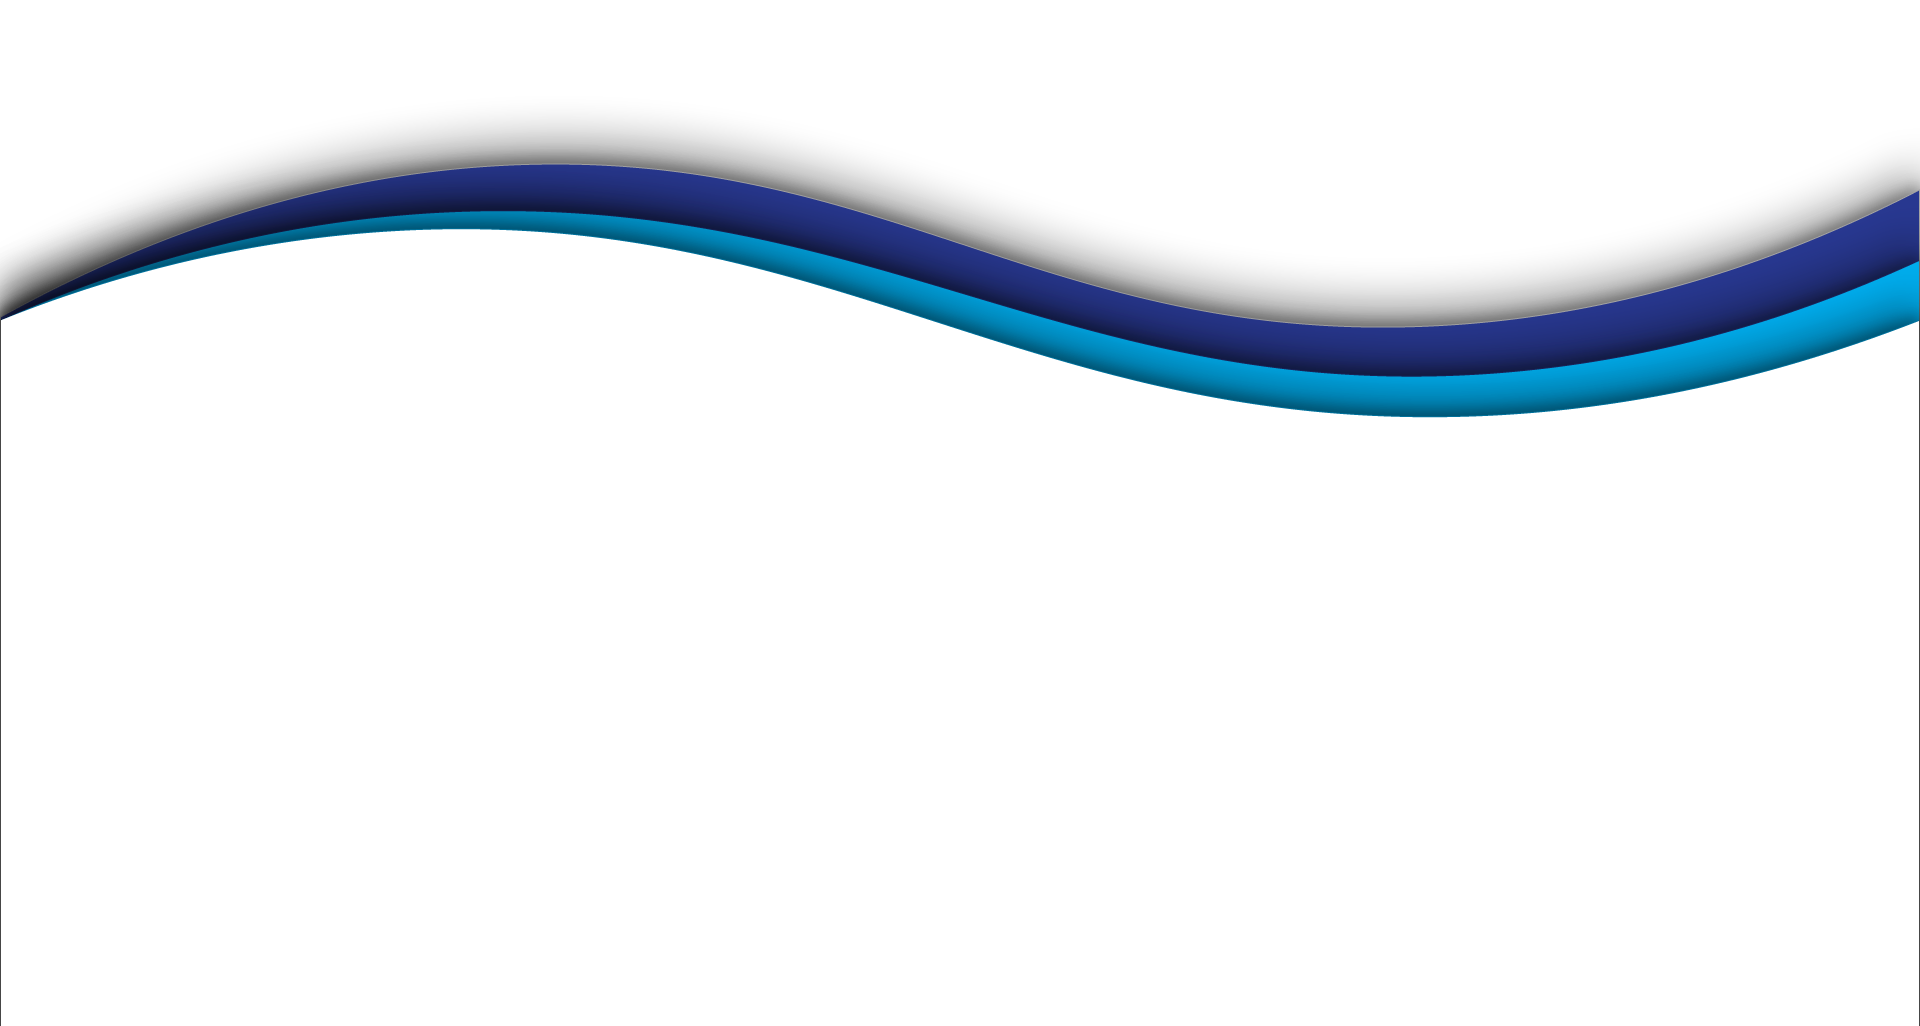
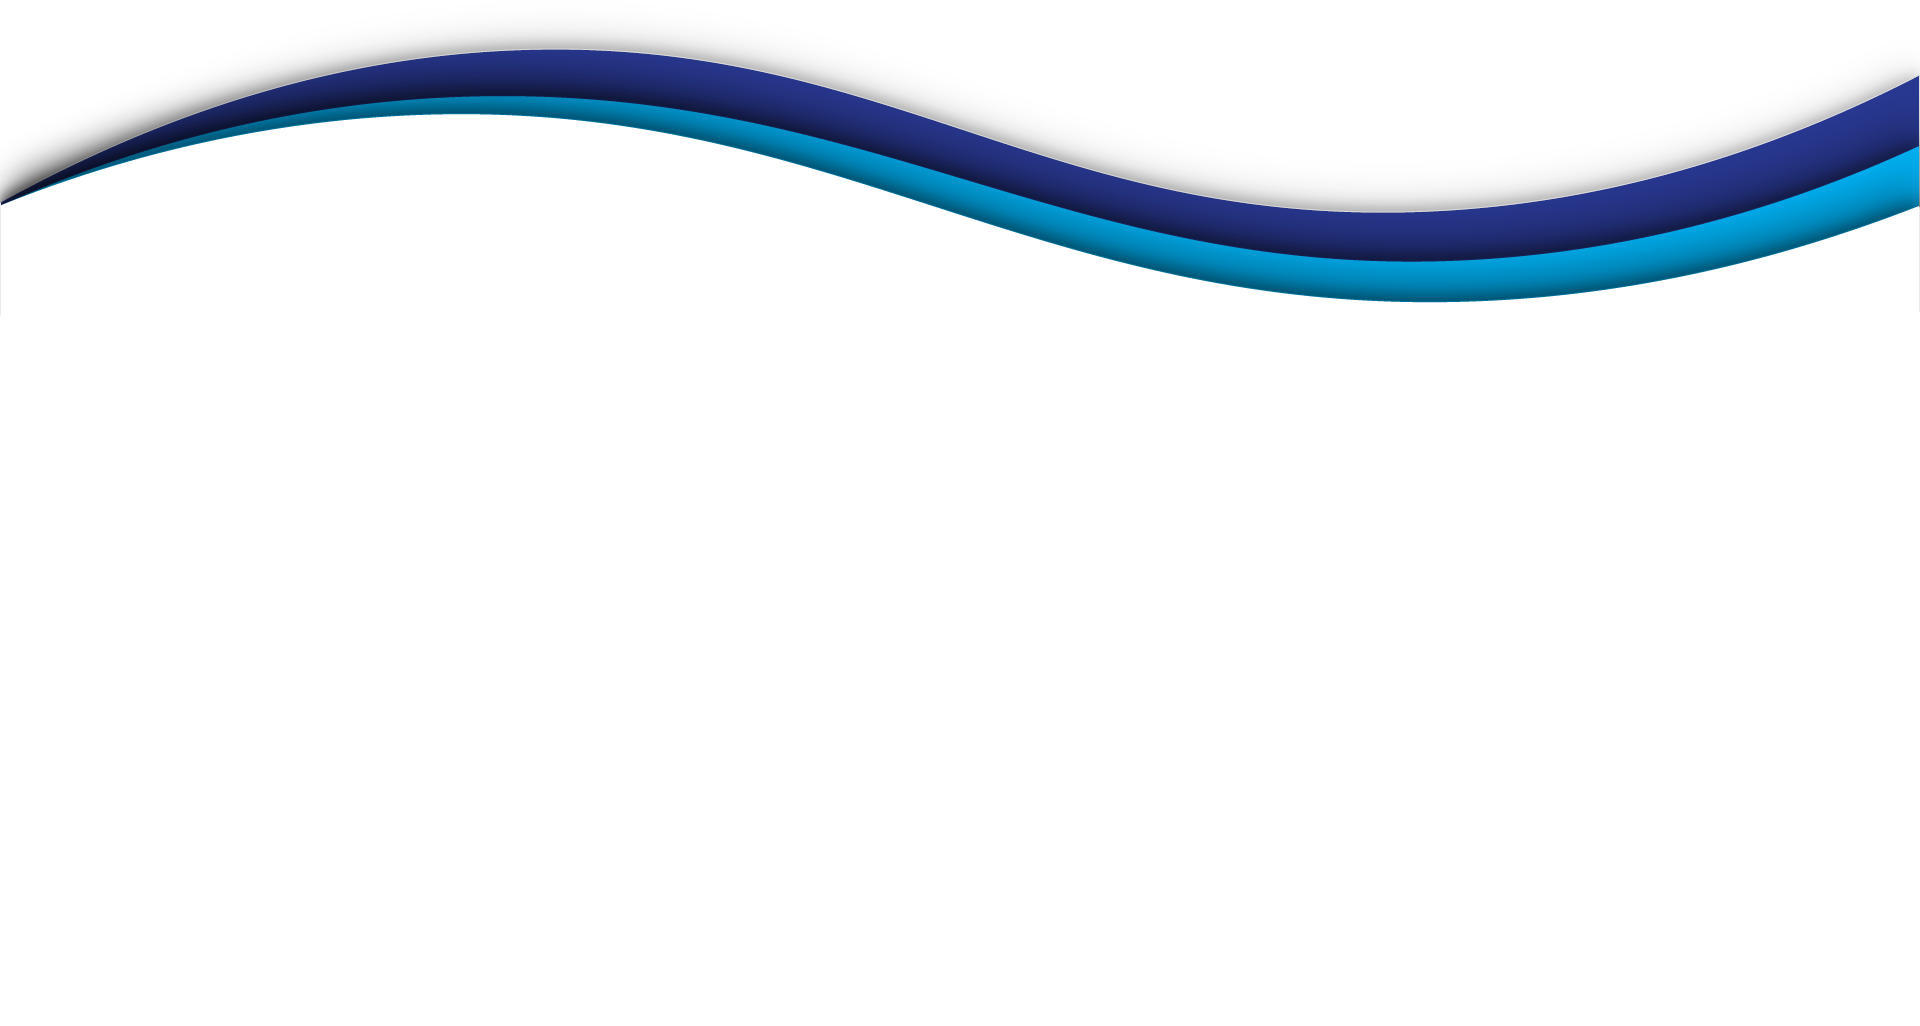
nav and slideshow finished

Changed region(s): [[0.0, 0.0312, 1.0, 0.4055]]

diff --git a/index.html b/index.html
@@ -36,31 +36,31 @@ function showSlides(n) {
 </head>
 <body>
     <div class="container">
-<div class="slideshow-container"><div class="mySlides fade">
-
+<div class="slideshow-container">
+    
+    <div class="mySlides fade">
     <img src="Picture1.jpg" style="width:100%">
-    
     </div>
-
+    
     <div class="mySlides fade">
-  
     <img src="Picture2.jpg" style="width:100%">
-    
     </div>
-
+    
     <div class="mySlides fade">
-
     <img src="Picture3.jpg" style="width:100%">
+    </div> 
     
-    </div> <a class="prev" onclick="plusSlides(-1)">&#10094;</a>
+    <a class="prev" onclick="plusSlides(-1)">&#10094;</a>
+    
     <a class="next" onclick="plusSlides(1)">&#10095;</a>
-    </div>
-<br>
-<div style="text-align:center">
-  <span class="dot" onclick="currentSlide(1)"></span>
-  <span class="dot" onclick="currentSlide(2)"></span>
-  <span class="dot" onclick="currentSlide(3)"></span>
+    <div>
+  <div style="position:absolute; top:850px; margin-left:890px;" class="dot" onclick="currentSlide(1)"></div>
+  <div style="position:absolute; top:850px; margin-left:930px;" class="dot" onclick="currentSlide(2)"></div>
+  <div style="position:absolute; top:850px; margin-left:970px;" class="dot" onclick="currentSlide(3)"></div>
 </div>
+        </div>
+<br>
+
  <div class="nav">
             <a id="home" href="home.html">HOME</a>
             <a class="pages" href="page2.html">Fish</a>
@@ -70,8 +70,27 @@ function showSlides(n) {
             <a class="pages" href="page6.html">Seals and penguins</a> 
         </div>
         <img id="wave" src="wave.png">
-        <hr>
         <div class="content">
+            <br>
+            <br>
+            <br>
+            <hr>
+        <p>RGB Value
+In CSS, a color can be specified as an RGB value, using this formula:
+
+rgb(red, green, blue)
+
+Each parameter (red, green, and blue) defines the intensity of the color between 0 and 255.
+
+For example, rgb(255, 0, 0) is displayed as red, because red is set to its highest value (255) and the others are set to 0.
+
+To display black, set all color parameters to 0, like this: rgb(0, 0, 0).
+
+To display white, set all color parameters to 255, like this: rgb(255, 255, 255).
+
+Experiment by mixing the RGB values below:
+
+</p>
         </div>
         <div class="cite">
         </div>

diff --git a/stylesheet.css b/stylesheet.css
@@ -85,16 +85,14 @@ height:100%;
   cursor: pointer;
   height: 15px; 
   width: 15px;
-  margin: 0 5px;
-  background-color: #bbb;
+  background-color:#bbb ;
   border-radius: 50%;
   display: inline-block;
   transition: background-color 0.6s ease;
-  
 }
 
-.active, .dot:hover {
-  background-color: #717171;
+.active,.dot:hover {
+  background-color:rgba(100,100,100,1);
 }
 
 /* Fading animation */
@@ -134,20 +132,19 @@ height:100%;
     color:white;
     font-size:70px;
     font-family: 'Agency FB', arial;    
-    background-color: rgba(0, 185, 255, 1);
+    background-color: rgba(0, 205, 255, 1);
     padding-bottom:25px;
     padding-top:15px;
     padding-right:15px;
     padding-left:15px;
-    
 }
 img{
     width:100%;
 }
 #wave{
     position: absolute;
-    top: 700px;
-    width:2000px;
+    top: 500px;
+    width:2000px
 }
 .pages:hover{
     background-color:rgba(0, 0,0, 1);
